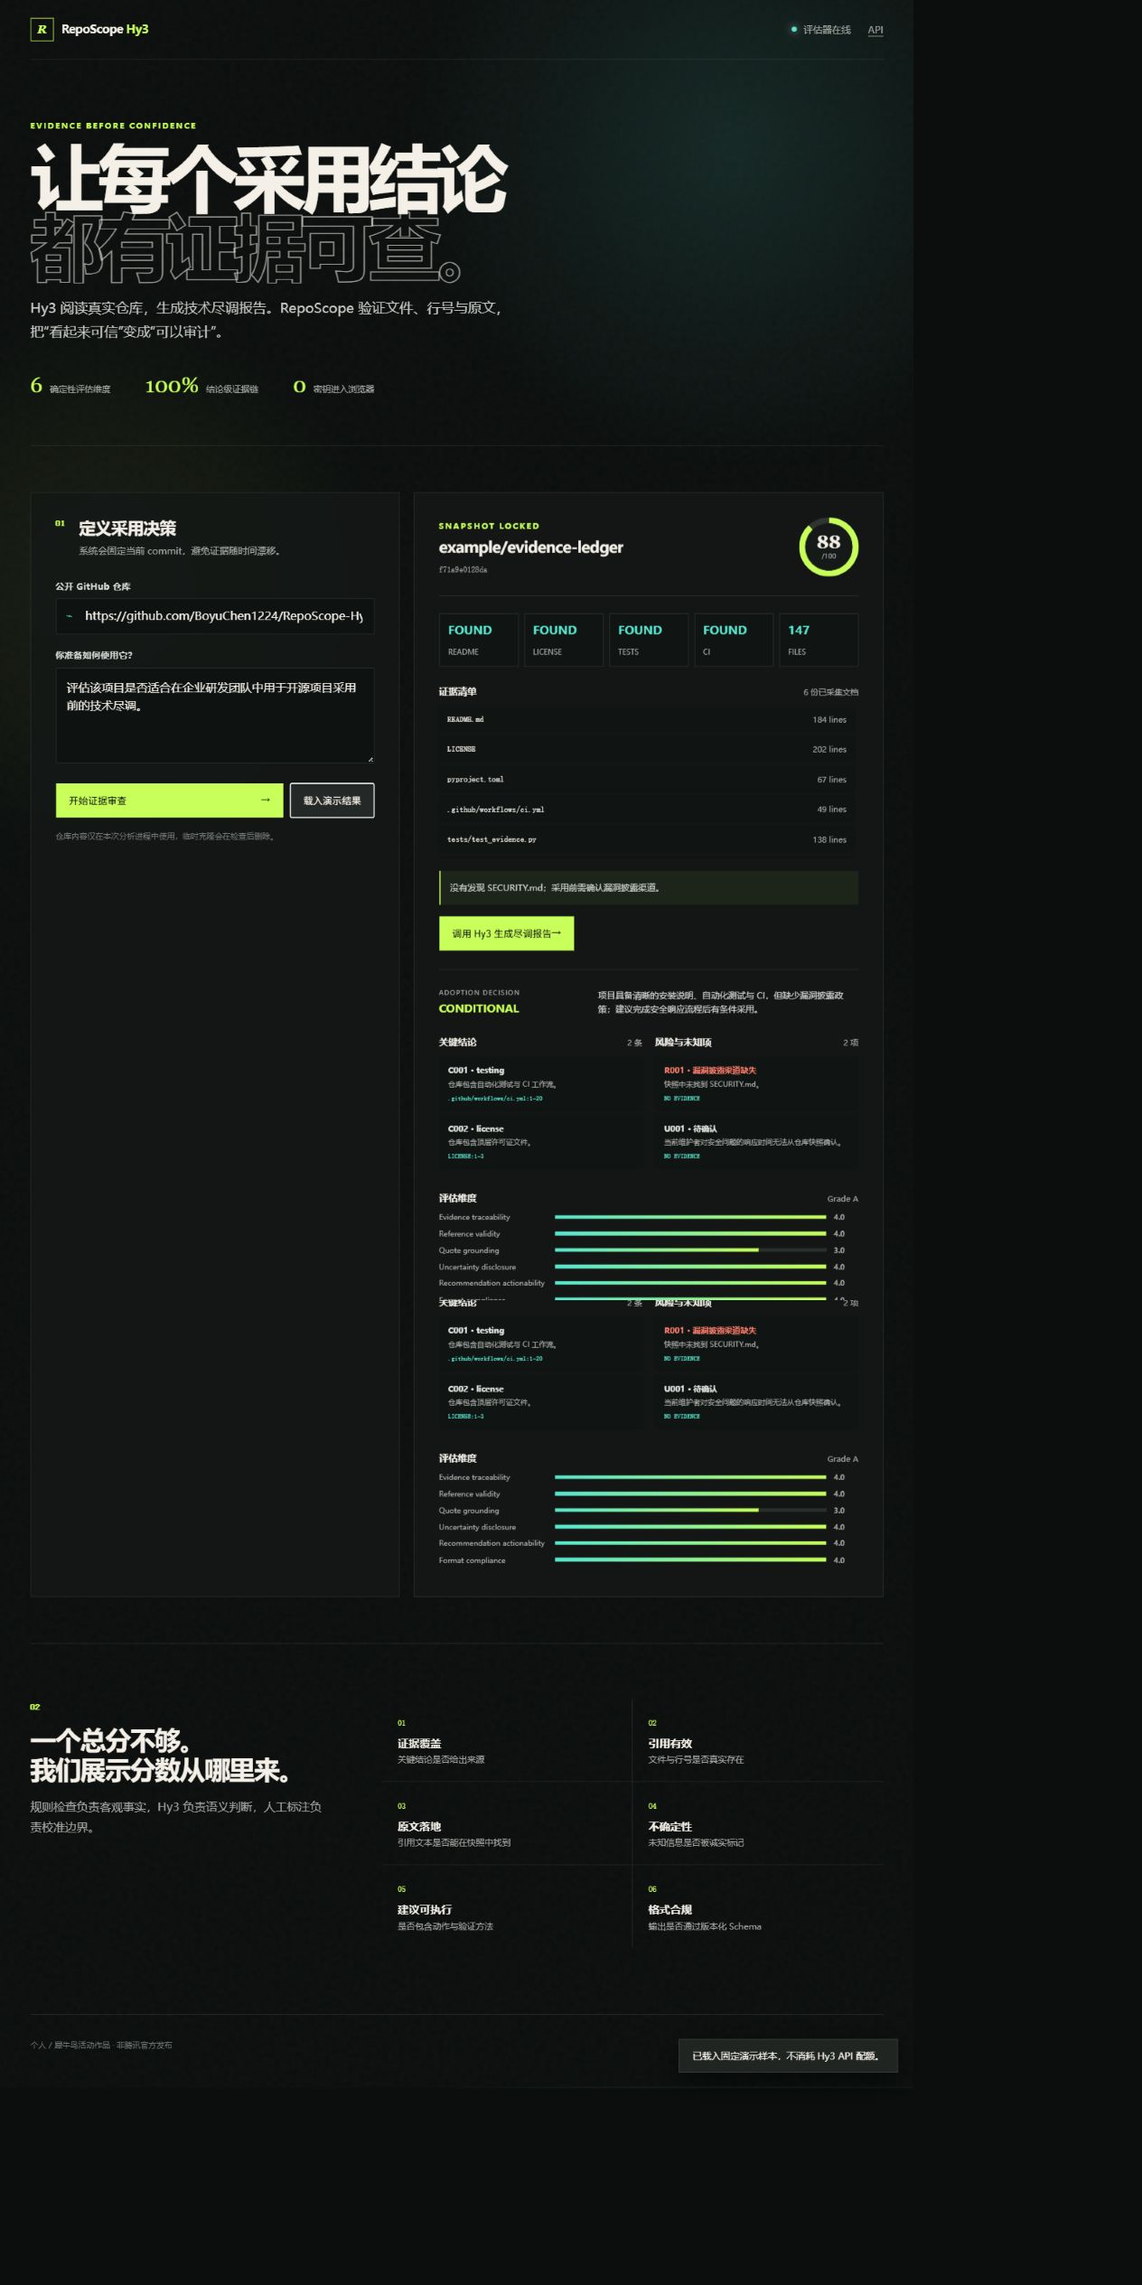
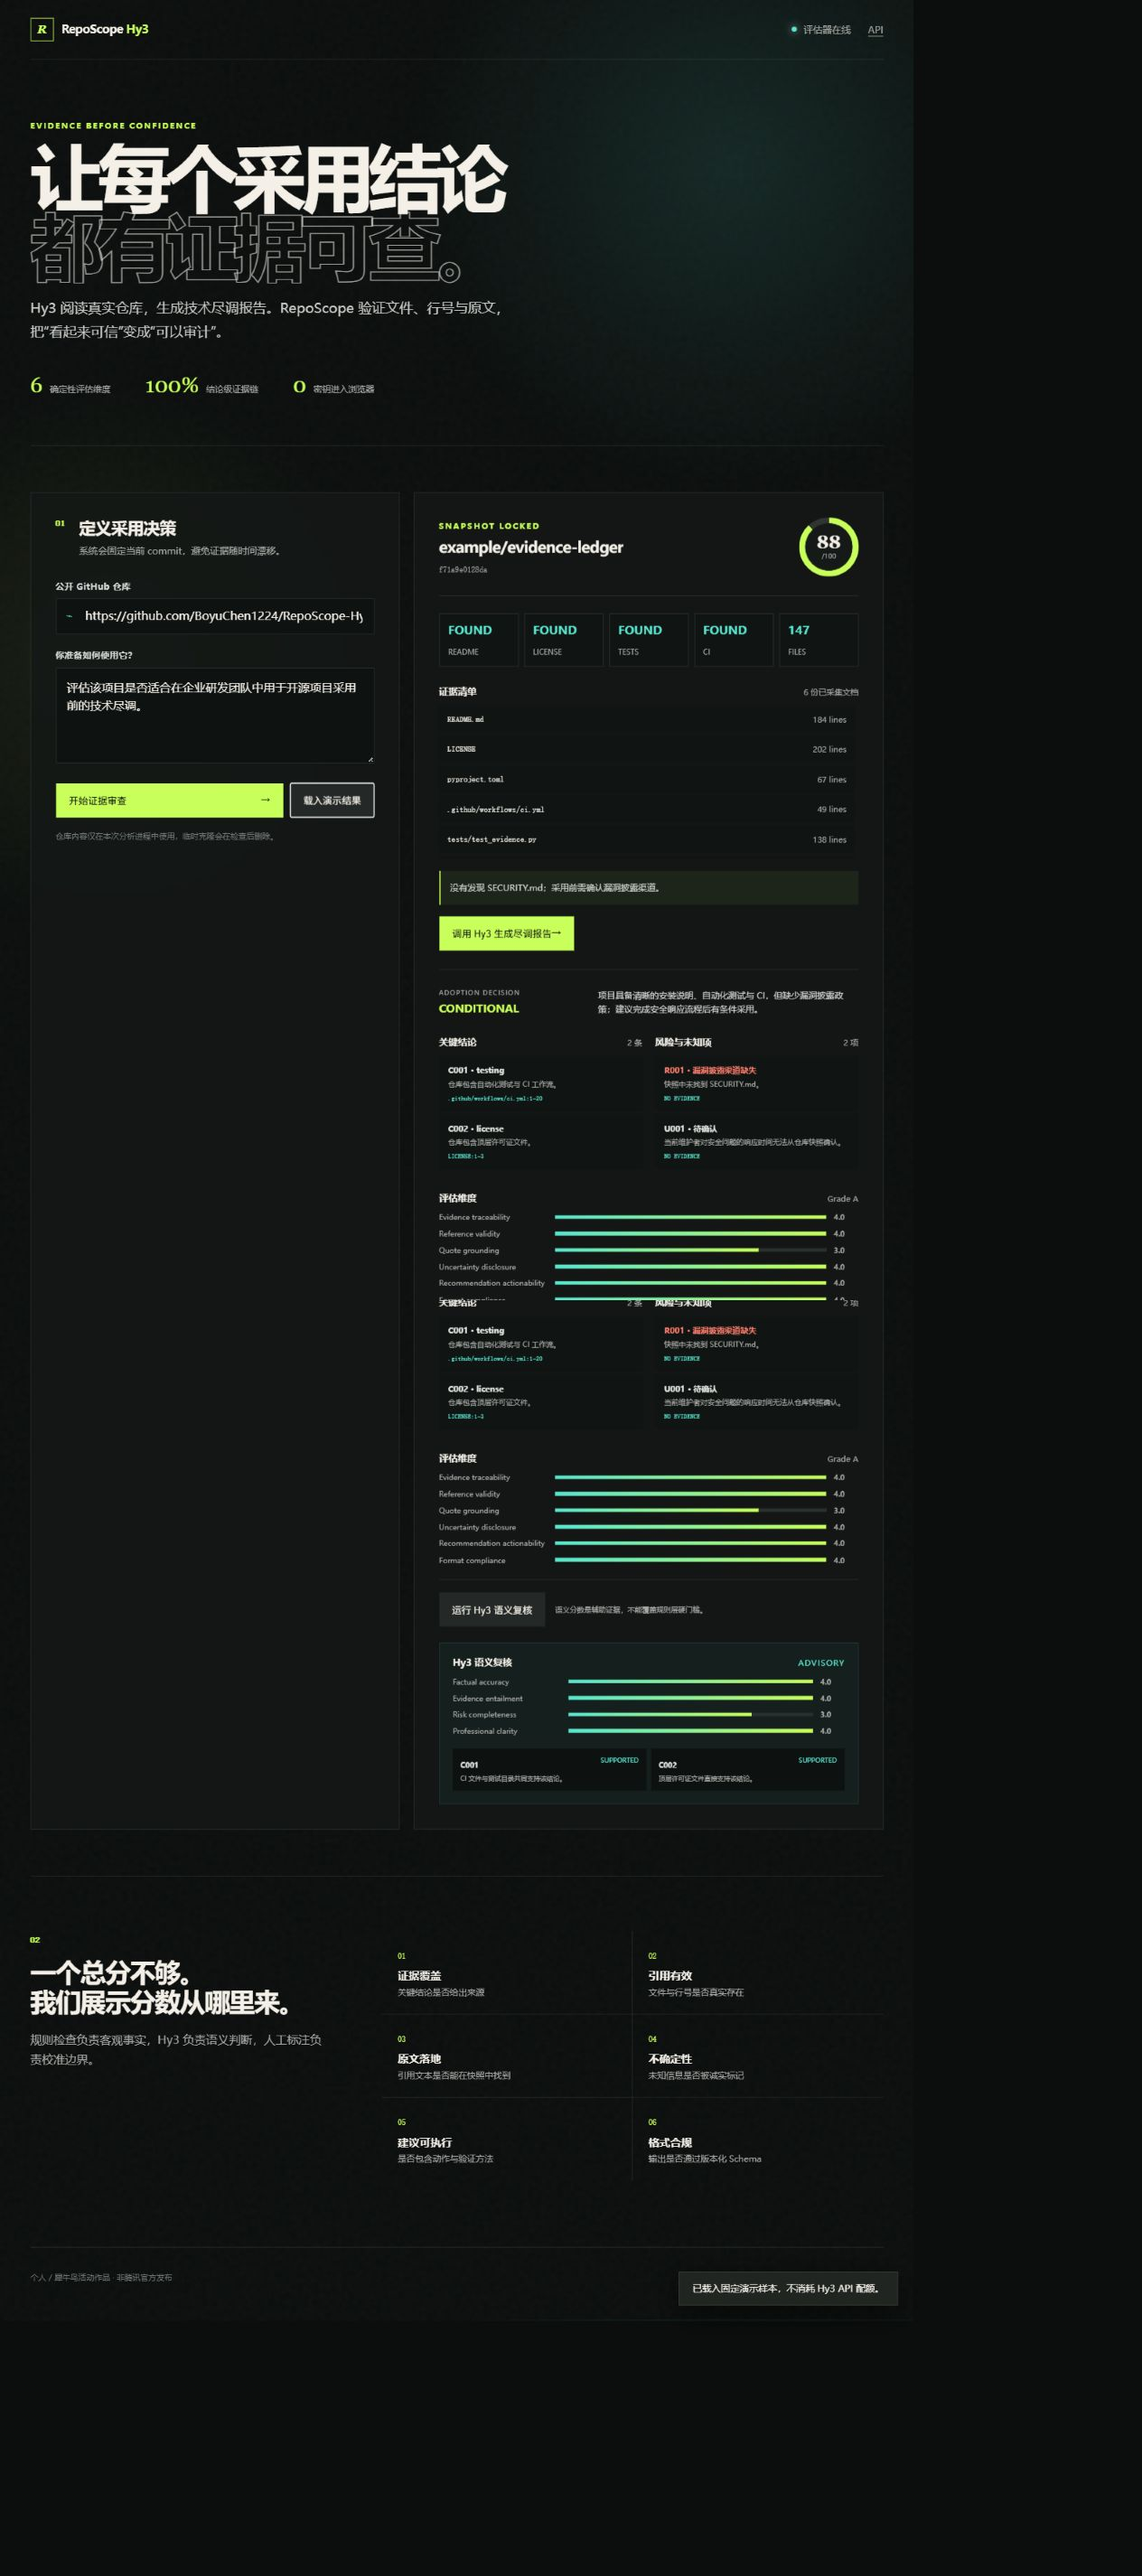
feat: expose semantic review in the evidence UI

diff --git a/src/reposcope/static/app.js b/src/reposcope/static/app.js
@@ -5,6 +5,7 @@ const emptyState = document.querySelector("#emptyState");
 const results = document.querySelector("#results");
 const toast = document.querySelector("#toast");
 const generateButton = document.querySelector("#generateButton");
+const judgeButton = document.querySelector("#judgeButton");
 let activeManifest = null;
 let activeReport = null;
 
@@ -60,6 +61,8 @@ function renderManifest(manifest, score = null) {
   document.querySelector("#resultCallout").textContent = warning;
   document.querySelector("#reportView").classList.add("hidden");
   document.querySelector("#scoreBreakdown").classList.add("hidden");
+  document.querySelector("#semanticActions").classList.add("hidden");
+  document.querySelector("#semanticView").classList.add("hidden");
   generateButton.classList.remove("hidden");
 }
 
@@ -99,6 +102,18 @@ function renderEvaluation(evaluation) {
   if (evaluation.hard_failures.length) {
     document.querySelector("#resultCallout").textContent = `硬门槛触发：${evaluation.hard_failures.join(" ")}`;
   }
+  document.querySelector("#semanticActions").classList.remove("hidden");
+}
+
+function renderSemanticEvaluation(evaluation) {
+  document.querySelector("#semanticView").classList.remove("hidden");
+  document.querySelector("#semanticDimensionList").innerHTML = evaluation.dimensions.map(item =>
+    `<div class="dimension-row"><span>${escapeHtml(item.label)}</span><div class="dimension-bar"><i style="width:${Math.max(0, Math.min(100, Number(item.score) / 4 * 100))}%"></i></div><strong>${Number(item.score).toFixed(1)}</strong></div>`
+  ).join("");
+  document.querySelector("#judgementList").innerHTML = evaluation.claim_judgements.map(item =>
+    `<article class="judgement"><strong>${escapeHtml(item.claim_id)}</strong><em>${escapeHtml(item.verdict)}</em><p>${escapeHtml(item.explanation)}</p></article>`
+  ).join("");
+  document.querySelector("#semanticView").scrollIntoView({behavior: "smooth", block: "nearest"});
 }
 
 async function checkHealth() {
@@ -170,6 +185,16 @@ demoButton.addEventListener("click", () => {
     {label: "Quote grounding", score: 3}, {label: "Uncertainty disclosure", score: 4},
     {label: "Recommendation actionability", score: 4}, {label: "Format compliance", score: 4},
   ]});
+  renderSemanticEvaluation({
+    dimensions: [
+      {label: "Factual accuracy", score: 4}, {label: "Evidence entailment", score: 4},
+      {label: "Risk completeness", score: 3}, {label: "Professional clarity", score: 4},
+    ],
+    claim_judgements: [
+      {claim_id: "C001", verdict: "supported", explanation: "CI 文件与测试目录共同支持该结论。"},
+      {claim_id: "C002", verdict: "supported", explanation: "顶层许可证文件直接支持该结论。"},
+    ],
+  });
   notify("已载入固定演示样本，不消耗 Hy3 API 配额。");
 });
 
@@ -198,6 +223,27 @@ generateButton.addEventListener("click", async () => {
   } finally {
     generateButton.disabled = false;
     generateButton.querySelector("span").textContent = "重新调用 Hy3 生成报告";
+  }
+});
+
+judgeButton.addEventListener("click", async () => {
+  if (!activeManifest || !activeReport) return;
+  judgeButton.disabled = true;
+  judgeButton.textContent = "Hy3 正在进行语义复核…";
+  try {
+    const response = await fetch("/api/evaluations/judge", {
+      method: "POST", headers: {"Content-Type": "application/json"},
+      body: JSON.stringify({manifest: activeManifest, report: activeReport}),
+    });
+    const evaluation = await response.json();
+    if (!response.ok) throw new Error(evaluation.detail || "Hy3 语义复核失败");
+    renderSemanticEvaluation(evaluation);
+    notify("语义复核完成；规则层硬门槛仍保持优先。 ");
+  } catch (error) {
+    notify(error.message);
+  } finally {
+    judgeButton.disabled = false;
+    judgeButton.textContent = "重新运行 Hy3 语义复核";
   }
 });
 

diff --git a/src/reposcope/static/styles.css b/src/reposcope/static/styles.css
@@ -119,6 +119,14 @@ button:disabled { cursor: wait; opacity: .55; transform: none; }
 .score-breakdown { margin-top: 24px; }
 .dimension-row { display: grid; grid-template-columns: 150px 1fr 34px; align-items: center; gap: 10px; margin: 10px 0; color: var(--muted); font-size: 10px; }
 .dimension-bar { height: 5px; background: #2a302d; overflow: hidden; }.dimension-bar i { display: block; height: 100%; background: linear-gradient(90deg, var(--cyan), var(--lime)); }
+.semantic-actions { display: flex; align-items: center; gap: 14px; margin-top: 20px; padding-top: 18px; border-top: 1px solid var(--line); }
+.semantic-actions p { margin: 0; color: var(--muted); font-size: 10px; line-height: 1.5; }
+.semantic-view { margin-top: 22px; padding: 18px; background: rgba(88,230,208,.045); border: 1px solid rgba(88,230,208,.16); }
+.semantic-view .section-title { margin-top: 0; }.semantic-view .section-title span { color: var(--cyan); letter-spacing: .1em; }
+.judgement-list { display: grid; grid-template-columns: 1fr 1fr; gap: 6px; margin-top: 18px; }
+.judgement { padding: 10px 11px; background: #0d1110; }
+.judgement strong { color: #e1e3df; font-size: 10px; }.judgement em { float: right; color: var(--cyan); font-size: 9px; font-style: normal; text-transform: uppercase; }
+.judgement p { margin: 5px 0 0; color: var(--muted); font-size: 9px; line-height: 1.45; }
 
 .method { display: grid; grid-template-columns: .75fr 1.25fr; gap: 70px; padding: 76px 0 92px; border-top: 1px solid var(--line); }
 .method-intro h2 { margin: 16px 0 18px; font-size: 36px; letter-spacing: -.045em; line-height: 1.15; }.method-intro p { color: var(--muted); line-height: 1.7; }
@@ -135,6 +143,7 @@ footer { display: flex; justify-content: space-between; padding: 24px 0 40px; bo
   .hero { padding-top: 60px; }.hero-stats { flex-wrap: wrap; gap: 20px 30px; }
   .signal-grid { grid-template-columns: repeat(2, 1fr); }.method { gap: 35px; }
   .report-summary, .report-columns { grid-template-columns: 1fr; }
+  .judgement-list { grid-template-columns: 1fr; }
 }
 @media (max-width: 540px) {
   .topbar, main, footer { width: min(100% - 24px, 1180px); }

diff --git a/src/reposcope/static/index.html b/src/reposcope/static/index.html
@@ -109,6 +109,15 @@
                 <div class="section-title"><h3>评估维度</h3><span id="gradeLabel"></span></div>
                 <div id="dimensionList"></div>
               </div>
+              <div class="semantic-actions hidden" id="semanticActions">
+                <button class="secondary" type="button" id="judgeButton">运行 Hy3 语义复核</button>
+                <p>语义分数是辅助证据，不能覆盖规则层硬门槛。</p>
+              </div>
+              <div class="semantic-view hidden" id="semanticView">
+                <div class="section-title"><h3>Hy3 语义复核</h3><span>ADVISORY</span></div>
+                <div id="semanticDimensionList"></div>
+                <div class="judgement-list" id="judgementList"></div>
+              </div>
             </div>
           </div>
         </div>

diff --git a/tests/test_app.py b/tests/test_app.py
@@ -1,6 +1,8 @@
+import pytest
 from fastapi.testclient import TestClient
 
 from reposcope.app import app
+from reposcope.models import SemanticEvaluationResult
 
 client = TestClient(app)
 
@@ -26,3 +28,66 @@ def test_inspect_rejects_non_allowlisted_host() -> None:
 
     assert response.status_code == 422
     assert "allowlist" in response.json()["detail"]
+
+
+def test_semantic_judge_endpoint_returns_advisory_dimensions(
+    monkeypatch: pytest.MonkeyPatch,
+) -> None:
+    expected = SemanticEvaluationResult.model_validate(
+        {
+            "dimensions": [
+                {
+                    "key": "factual_accuracy",
+                    "label": "Factual accuracy",
+                    "score": 4,
+                    "explanation": "The cited claim is supported.",
+                }
+            ],
+            "claim_judgements": [
+                {
+                    "claim_id": "C001",
+                    "verdict": "supported",
+                    "explanation": "The source says the same thing.",
+                }
+            ],
+        }
+    )
+    monkeypatch.setattr(
+        "reposcope.app.Hy3SemanticEvaluator.evaluate",
+        lambda self, manifest, report: expected,
+    )
+    payload = {
+        "manifest": {
+            "source_url": "https://github.com/example/project",
+            "commit_sha": "a" * 40,
+            "inspected_at": "2026-08-24T00:00:00+00:00",
+            "goal": "Assess production adoption.",
+            "file_count": 1,
+            "total_size_bytes": 20,
+        },
+        "report": {
+            "repository": "https://github.com/example/project",
+            "commit_sha": "a" * 40,
+            "analysis_goal": "Assess production adoption.",
+            "executive_summary": "The snapshot is incomplete.",
+            "decision": "conditional",
+            "decision_confidence": 0.7,
+            "claims": [
+                {
+                    "id": "C001",
+                    "category": "documentation",
+                    "text": "A README exists.",
+                    "confidence": 0.9,
+                    "evidence": [],
+                }
+            ],
+            "risks": [],
+            "recommendations": [],
+            "unknowns": ["Runtime behavior is unknown."],
+        },
+    }
+
+    response = client.post("/api/evaluations/judge", json=payload)
+
+    assert response.status_code == 200
+    assert response.json()["dimensions"][0]["key"] == "factual_accuracy"

diff --git a/scripts/build_demo_gif.py b/scripts/build_demo_gif.py
@@ -49,7 +49,8 @@ def main() -> None:
         (before, 570, "固定 commit，建立受限证据快照", "02"),
         (after, 560, "采集 README、许可证、测试与 CI 信号", "03"),
         (after, 1040, "Hy3 输出结论、风险、未知项与逐条引用", "04"),
-        (after, 1630, "评估器验证证据，并展示六维得分与硬门槛", "05"),
+        (after, 1550, "规则层验证证据，并展示六维得分与硬门槛", "05"),
+        (after, 2070, "Hy3 语义复核逐条判断事实与证据蕴含", "06"),
     ]
     frames = [frame(*specification) for specification in specifications]
     OUTPUT.parent.mkdir(parents=True, exist_ok=True)
@@ -57,7 +58,7 @@ def main() -> None:
         OUTPUT,
         save_all=True,
         append_images=frames[1:],
-        duration=[1700, 1800, 1900, 2300, 2600],
+        duration=[1700, 1800, 1900, 2300, 2300, 2500],
         loop=0,
         optimize=True,
     )

diff --git a/docs/SUBMISSION_CHECKLIST.md b/docs/SUBMISSION_CHECKLIST.md
@@ -1,0 +1,70 @@
+# Competition submission completion audit
+
+This checklist maps every explicit Task 1 requirement to current authoritative evidence. A checked
+item means the cited artifact or command directly proves it; it does not mean adjacent untested
+behavior is inferred to work.
+
+## Repository and application
+
+- [ ] **Public repository with submitted link** - local history contains the complete project, but
+  `BoyuChen1224/RepoScope-Hy3` remains empty until GitHub CLI authentication is restored and pushed.
+- [x] **Runnable Hy3 application source** - `src/reposcope/`, `start.bat`, `start.sh`, `Dockerfile`.
+- [x] **README introduction, runtime, and environment requirements** - `README.md`, `README_CN.md`.
+- [x] **Environment configuration example without a committed key** - `.env.example`; `.env` is
+  ignored, and the configured key was scanned against all committed candidates with no match.
+- [x] **Independent activity-project attribution** - both README files and the UI footer explicitly
+  state that this is a personal activity work, not an official Tencent release.
+- [x] **Hy3 usage without training or fine-tuning** - `src/reposcope/hy3_client.py` uses the configured
+  OpenAI-compatible Hy3 endpoint.
+
+## Scenario and method
+
+- [x] **Clear real user, problem, and model necessity** - `reports/final_report.md`, sections 1-2.
+- [x] **More than five evaluation dimensions** - six deterministic dimensions plus four advisory
+  semantic dimensions in `docs/EVALUATION.md`.
+- [x] **Operational judgement anchors** - explicit 0-4 thresholds and hard-failure conditions in
+  `docs/EVALUATION.md`; implementation in `src/reposcope/evaluator.py` and
+  `src/reposcope/semantic_evaluator.py`.
+- [x] **Automatic or semi-automatic evaluation flow** - API routes `/api/evaluations/evaluate` and
+  `/api/evaluations/judge`, both exposed in the browser workflow.
+- [x] **Design rationale** - `reports/final_report.md`, section 3.
+
+## Samples and validity
+
+- [x] **Documented sample source, construction, and coverage** - `datasets/README.md` and
+  `scripts/generate_benchmark.py`.
+- [x] **Hard and negative examples** - 12 fabricated-reference, quote-mismatch, verbosity, and
+  unjustified-certainty cases in `datasets/benchmark/cases.jsonl`.
+- [x] **Discrimination validation** - 24/24 correct good > medium > bad orderings and Spearman 1.0000
+  in `results/experiment_summary.json`.
+- [x] **Consistency validation** - five deterministic repeats per case with maximum standard deviation
+  0; one live report with three Hy3 semantic repeats and zero per-dimension score variance.
+- [x] **Adversarial validation** - 12/12 constructed attacks rejected below 60 with a hard failure.
+- [x] **One real Hy3 case** - frozen self-repository commit, source manifest, report, deterministic
+  score, three semantic results, and summary under `results/live/ed167494e5c6/`.
+- [ ] **Human agreement** - not required because repeated-evaluation consistency is complete; an empty
+  template and blind annotation protocol are provided, but no human metric is claimed.
+
+## Required outputs
+
+- [x] **Application, configuration, and run instructions** - source tree, `.env.example`, start scripts.
+- [x] **Sample set, method document, scripts, and full result table** - `datasets/`, `docs/`, `scripts/`,
+  `results/evaluation_results.csv`.
+- [x] **Validity experiment process and data** - `reports/benchmark_analysis.md`, row-level CSV, JSON
+  summary, and live evidence directory.
+- [x] **Analysis report with scenario, solution, rubric basis, conclusions, failures, and boundaries** -
+  `reports/final_report.md`.
+- [x] **Demo shorter than two minutes** - 12.5-second `assets/demo/reposcope-hy3-demo.gif`; a 90-second
+  narrated script is provided in `docs/DEMO_SCRIPT_CN.md`.
+
+## Verification gates
+
+- [x] Ruff passes.
+- [x] 11 tests pass; coverage remains separately reported rather than treated as proof of untested paths.
+- [x] JavaScript syntax check passes.
+- [x] Desktop and 375px mobile browser layouts have no horizontal overflow; demo interaction and
+  advisory semantic results render without console errors.
+- [x] Docker Compose configuration parses.
+- [ ] Docker image runtime - Docker daemon is unavailable on this machine, so runtime remains
+  explicitly unverified and is not a competition requirement.
+- [ ] GitHub Actions - cannot run until the first remote push.

diff --git a/docs/DEMO_SCRIPT_CN.md b/docs/DEMO_SCRIPT_CN.md
@@ -1,6 +1,6 @@
 # RepoScope Hy3 演示脚本（建议 90 秒）
 
-仓库中的 GIF 是 10.3 秒无声流程预览。正式提交视频可按以下脚本录制，控制在 90 秒内。
+仓库中的 GIF 是 12.5 秒无声流程预览。正式提交视频可按以下脚本录制，控制在 90 秒内。
 
 | 时间 | 画面 | 旁白要点 |
 | --- | --- | --- |
